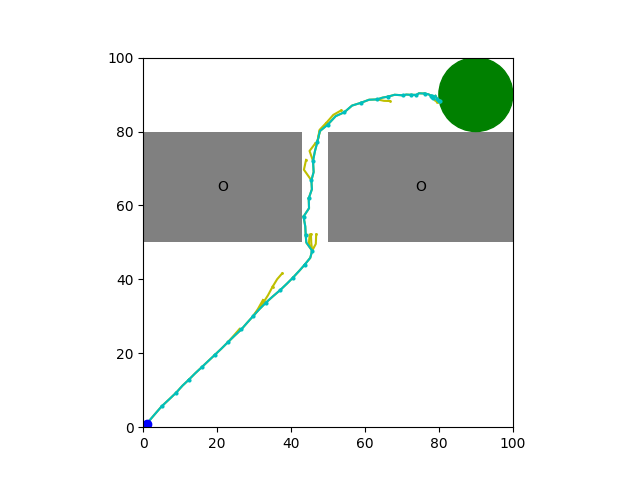
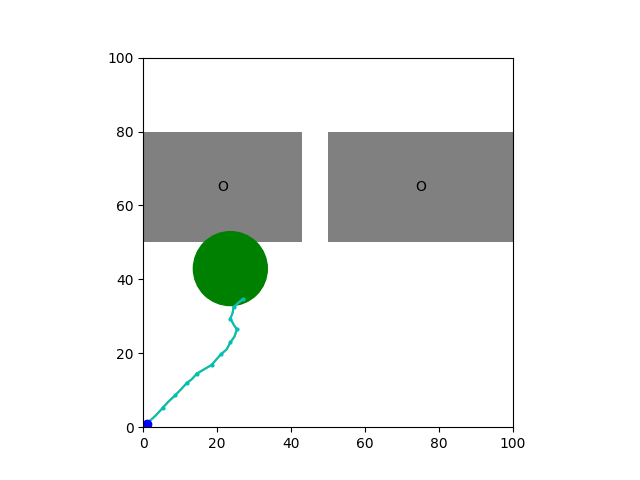
Pushing checkpoint for new model

diff --git a/Inference.py b/Inference.py
@@ -62,7 +62,7 @@ class unique_inference(RRT):
         self.env = Belief_env()
         self.agent = Belief_agent(self.env)
         self.api = Belief_wrapper(self.env, self.agent)
-        self.seed = loaded_config.get("seed", 5)
+        self.seed = loaded_config.get("seed", 30)
         goal = loaded_config.get("goal")
         if goal is None:
             goal = self.env.generate_random_goal(np.random.default_rng(self.seed))
